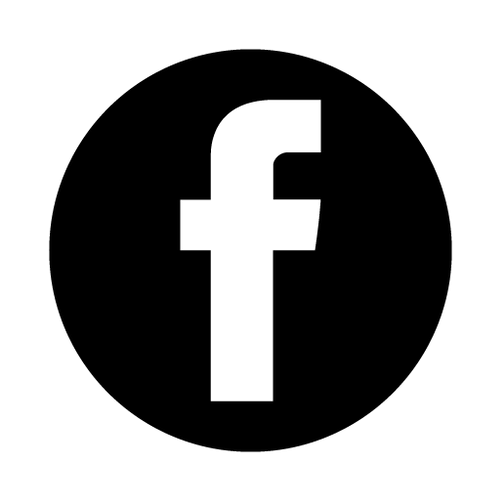
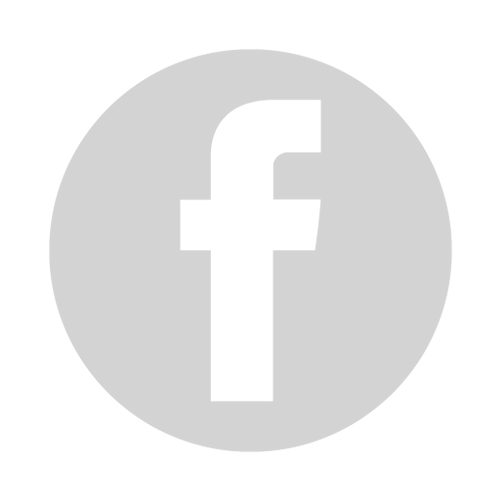
new color scheme

diff --git a/css/angertranslator.webflow.css b/css/angertranslator.webflow.css
@@ -655,12 +655,12 @@ margin-right:auto;
   display: -ms-flexbox;
   display: flex;
   height: auto;
-  padding-top: 0.2em;
-  padding-bottom: 0.2em;
+  /*padding-top: 0.2em;
+  padding-bottom: 0.2em;*/
   -webkit-justify-content: space-around;
   -ms-flex-pack: distribute;
   justify-content: space-around;
-  border: 7px none #01afd1;
+  /*border: 7px none #01afd1;*/
   background-color: #000;
   background: -webkit-radial-gradient( #666, #333, black); /* Safari 5.1 to 6.0 */
   background: -o-radial-gradient(#666, #333, black); /* For Opera 11.6 to 12.0 */
@@ -668,6 +668,8 @@ margin-right:auto;
   background: radial-gradient(#666, #333, black); /* Standard syntax */
     border-style: solid;
     border-color: lightgrey;
+     border-bottom: none;
+     border-top: none;
     
 }
 
@@ -746,6 +748,7 @@ html, body{
     background: transparent; 
     border-style: solid;
     border-color: lightgrey;
+     border-top: none;
     
 }
 
@@ -854,7 +857,7 @@ html, body{
   margin-right: 0.25em;
   padding-top: 0.3em;
   padding-bottom: 0.35em;
-  background-color: #f8e71c;
+  background-color: lightgrey;
   font-family: Oswald, sans-serif;
   color: #000;
   font-size: 45px;
